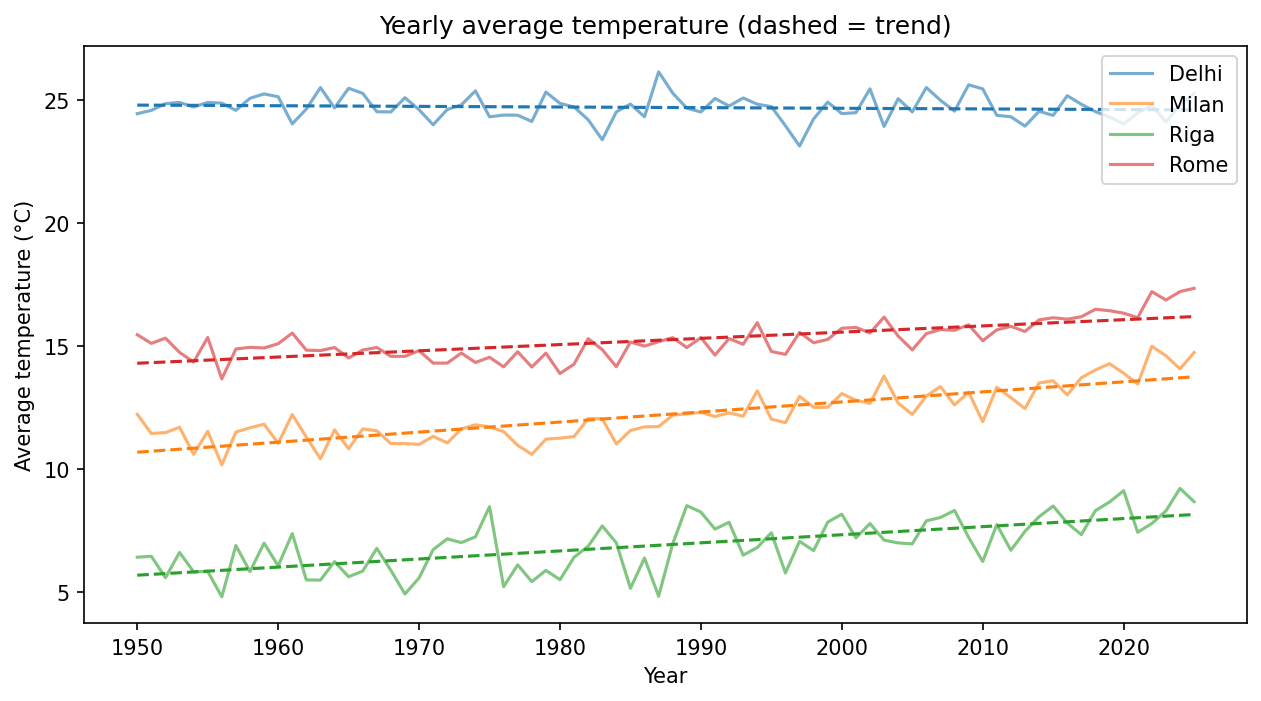
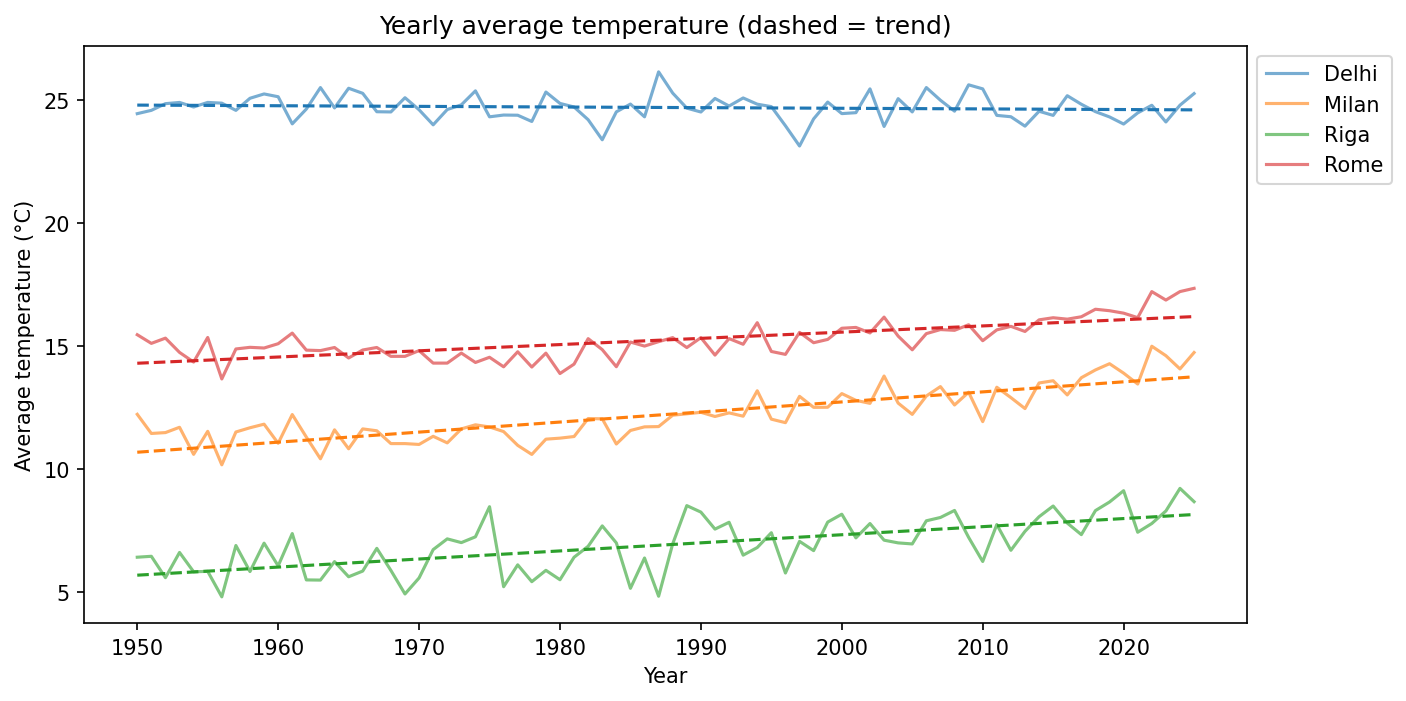
legend fix in graph

diff --git a/src/process.py b/src/process.py
@@ -1,0 +1,90 @@
+"""Load the downloaded CSV files and prepare them for analysis."""
+
+from pathlib import Path
+
+import pandas as pd
+
+DATA_DIR = Path("data")
+HOT_DAY_THRESHOLD = 30  # °C, a day with max temperature >= 30 counts as "hot"
+
+
+def load_data(data_dir=DATA_DIR):
+    """Load every city CSV from the data folder into one table.
+
+    Parameters
+    ----------
+    data_dir : Path
+        Folder containing the CSV files.
+
+    Returns
+    -------
+    pandas.DataFrame
+        All cities together, one row per city per day.
+    """
+    files = list(data_dir.glob("*.csv"))
+    if not files:
+        raise FileNotFoundError("No CSV files found. Run 'python -m src.fetch' first.")
+
+    df = pd.concat([pd.read_csv(file) for file in files], ignore_index=True)
+    df = df.rename(columns={
+        "time": "date",
+        "temperature_2m_mean": "temp_mean",
+        "temperature_2m_max": "temp_max",
+        "precipitation_sum": "rain",
+    })
+    df["date"] = pd.to_datetime(df["date"])
+    return df.dropna()
+
+
+def yearly_summary(df):
+    """Summarise each city's weather per year.
+
+    Parameters
+    ----------
+    df : pandas.DataFrame
+        Daily data from load_data().
+
+    Returns
+    -------
+    pandas.DataFrame
+        One row per city per year with average temperatures,
+        total rain and number of hot days.
+    """
+    df = df.copy()
+    df["year"] = df["date"].dt.year
+    df["hot_day"] = df["temp_max"] >= HOT_DAY_THRESHOLD
+
+    yearly = df.groupby(["city", "year"]).agg(
+        temp_mean=("temp_mean", "mean"),
+        temp_max=("temp_max", "mean"),
+        rain=("rain", "sum"),
+        hot_days=("hot_day", "sum"),
+    )
+    return yearly.reset_index()
+
+
+def monthly_summary(df):
+    """Average temperature per city, year and month (used for heatmaps).
+
+    Parameters
+    ----------
+    df : pandas.DataFrame
+        Daily data from load_data().
+
+    Returns
+    -------
+    pandas.DataFrame
+        One row per city, year and month with the mean temperature.
+    """
+    df = df.copy()
+    df["year"] = df["date"].dt.year
+    df["month"] = df["date"].dt.month
+
+    monthly = df.groupby(["city", "year", "month"])["temp_mean"].mean()
+    return monthly.reset_index()
+
+
+if __name__ == "__main__":
+    data = load_data()
+    print(data.head())
+    print(yearly_summary(data).tail())

diff --git a/src/plots.py b/src/plots.py
@@ -32,7 +32,7 @@ def plot_temperature(yearly, cities):
     ax.set_xlabel("Year")
     ax.set_ylabel("Average temperature (°C)")
     ax.set_title("Yearly average temperature (dashed = trend)")
-    ax.legend()
+    ax.legend(loc="upper left", bbox_to_anchor=(1, 1))
     return fig
 
 
